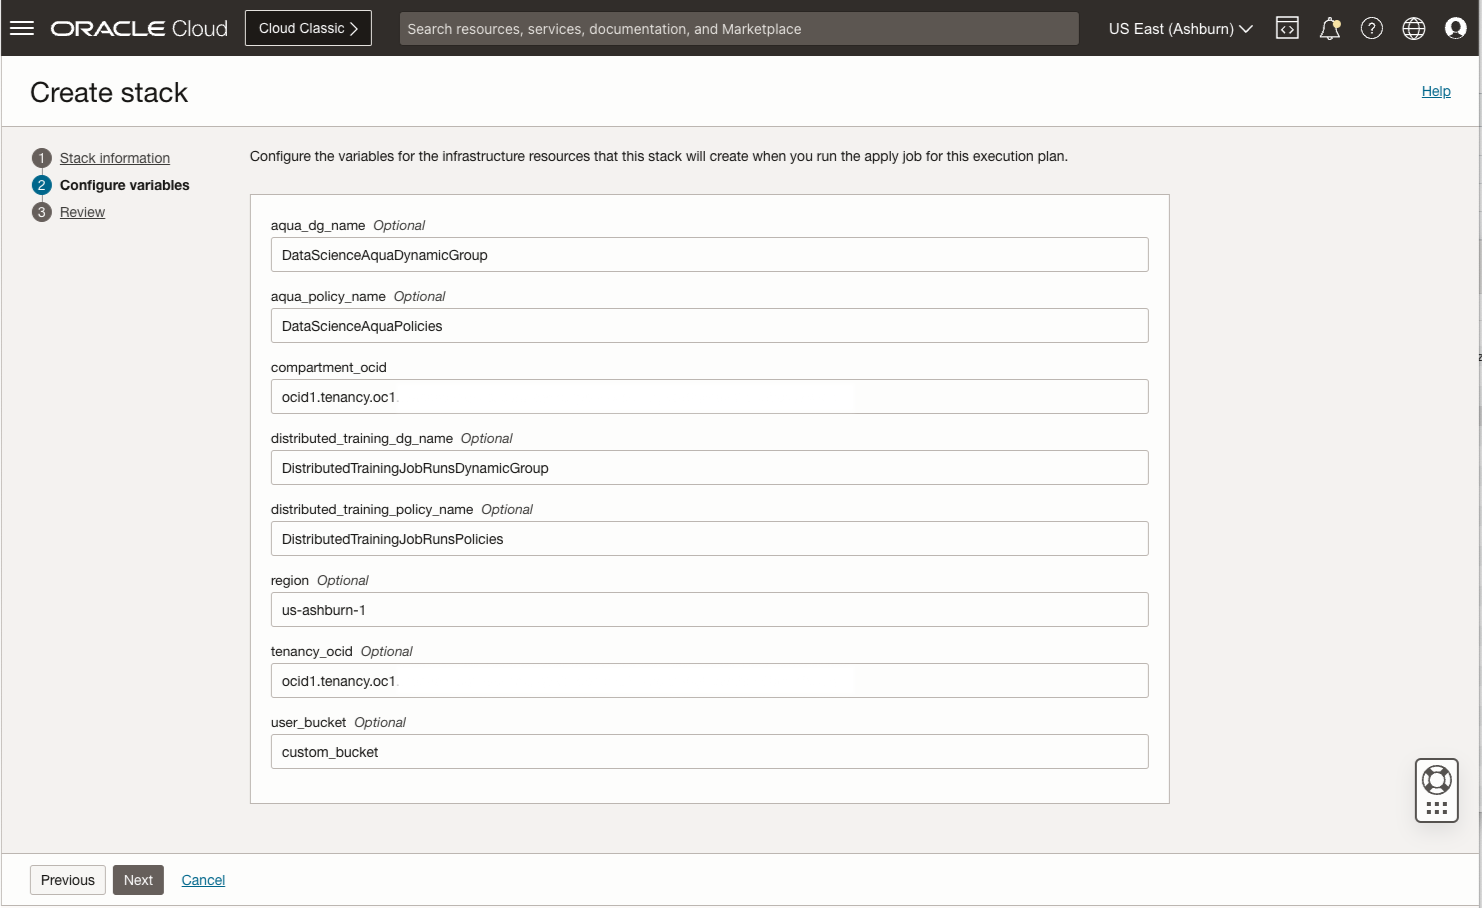
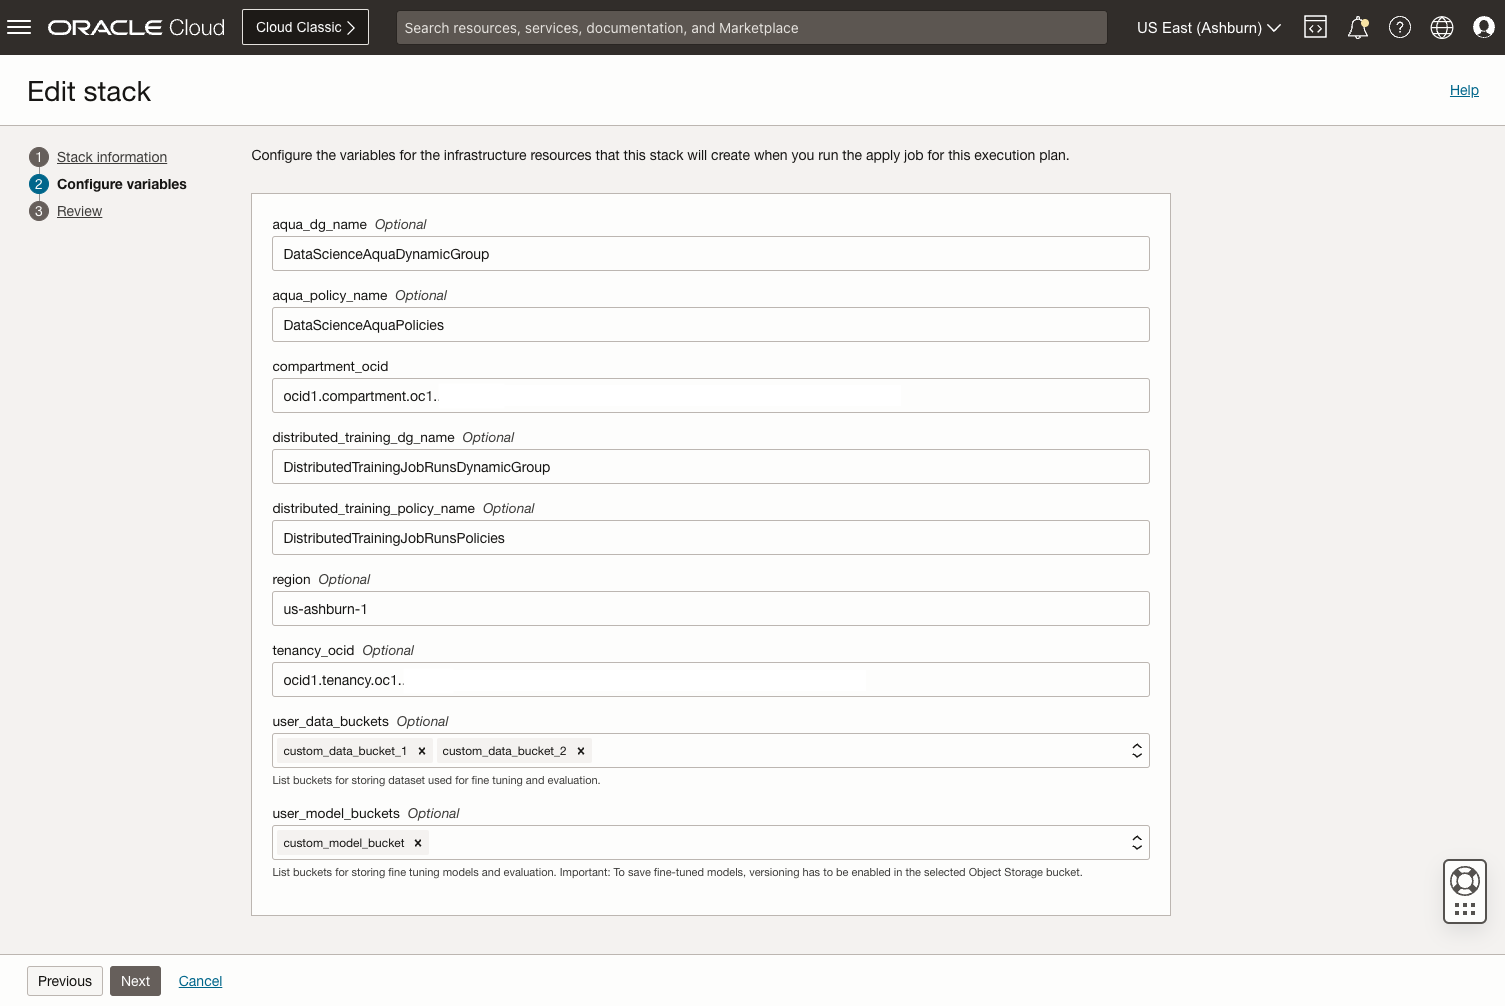
Aqua policy readme update

diff --git a/ai-quick-actions/policies/README.md b/ai-quick-actions/policies/README.md
@@ -1,9 +1,11 @@
 # ORM Policies
 
-To install required policies for AI Quick Actions you can use [Oracle Resource Manager](https://docs.oracle.com/en-us/iaas/Content/ResourceManager/Concepts/resourcemanager.htm) (ORM) stack. Download terraform configuration file with the infrastructure instructions for the dynamic groups and polices from here. For steps on creating stacks, see [Creating a Stack from a Zip File](https://docs.oracle.com/en-us/iaas/Content/ResourceManager/Tasks/create-stack-local.htm#top)
+To install required policies for AI Quick Actions you can use [Oracle Resource Manager](https://docs.oracle.com/en-us/iaas/Content/ResourceManager/Concepts/resourcemanager.htm) (ORM) stack. Download terraform configuration file [oci-ods-aqua-orm.zip](./oci-ods-aqua-orm.zip) with the infrastructure instructions for the dynamic groups and polices. For steps on creating stacks, see [Creating a Stack from a Zip File](https://docs.oracle.com/en-us/iaas/Content/ResourceManager/Tasks/create-stack-local.htm#top).
 
 ![Setup 1](../web_assets/policies1.png)
 
 ![Setup 2](../web_assets/policies2.png)
+
+> **Note:** To save fine-tuned models, versioning has to be enabled in the selected Object Storage bucket. See [here](https://docs.oracle.com/iaas/data-science/using/ai-quick-actions-fine-tuning.htm) for more information.
 
 ![Setup 3](../web_assets/policies3.png)
